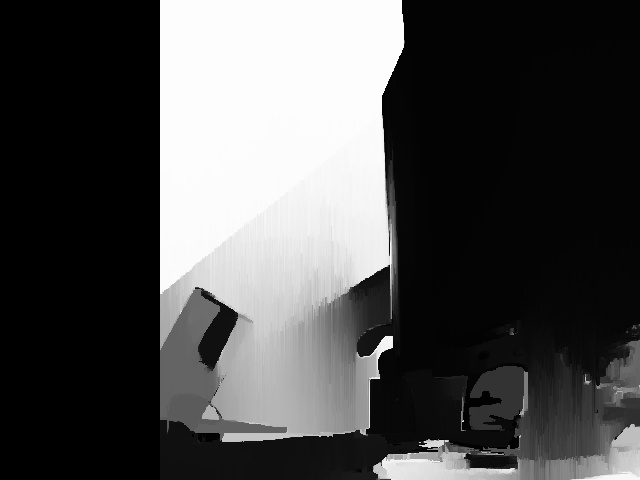
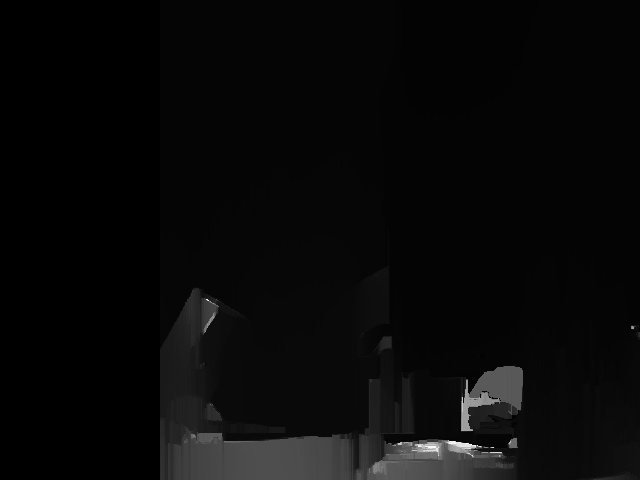
Little Things make me happy

diff --git a/StereoTest/LoadCalData.py b/StereoTest/LoadCalData.py
@@ -10,13 +10,13 @@ import numpy as np
 calib_loaded = calibration.StereoCalibration(input_folder=os.getcwd()+"/CalData")
 
 cam = ImagingApi.CameraApi(False, (0, 2))
+live = False
 
-
-while (True):
+def getDisparity():
     left_image, right_image = cam.getPicture()
 
-    #left_image = cv2.cvtColor(left_image, cv2.COLOR_BGR2GRAY)
-    #right_image = cv2.cvtColor(right_image, cv2.COLOR_BGR2GRAY)
+    left_image = cv2.cvtColor(left_image, cv2.COLOR_BGR2GRAY)
+    right_image = cv2.cvtColor(right_image, cv2.COLOR_BGR2GRAY)
 
     block_matcher = cv2.StereoBM_create()
 
@@ -44,7 +44,7 @@ while (True):
         speckleWindowSize=0,
         speckleRange=2,
         preFilterCap=63,
-            mode=cv2.STEREO_SGBM_MODE_SGBM_3WAY
+        mode=cv2.STEREO_SGBM_MODE_SGBM_3WAY
     )
 
     right_matcher = cv2.ximgproc.createRightMatcher(left_matcher)
@@ -69,10 +69,17 @@ while (True):
     filteredImg = cv2.normalize(src=filteredImg, dst=filteredImg, beta=0, alpha=255, norm_type=cv2.NORM_MINMAX);
     filteredImg = np.uint8(filteredImg)
     cv2.imshow('Disparity Map', filteredImg)
-    cv2.imshow("1",rectified_pair[0])
-    cv2.imshow("2",rectified_pair[1])
+    cv2.imshow("1", rectified_pair[0])
+    cv2.imshow("2", rectified_pair[1])
     cv2.imwrite('DisparityMap.jpg', filteredImg)
-    if cv2.waitKey(1) == 27:
-        break
+
+if live:
+    while (True):
+        getDisparity()
+        if cv2.waitKey(1) == 27:
+            break
+else:
+    getDisparity()
+
 cv2.waitKey(0)
 cv2.destroyAllWindows()

diff --git a/GetBrightness/GetBrightnessCalData.py b/GetBrightness/GetBrightnessCalData.py
@@ -4,7 +4,7 @@ import StereoTest
 import glob
 
 webcamID = 2
-cap = cv2.VideoCapture('http://192.168.199.3:808' + str(webcamID) + '/')
+#cap = cv2.VideoCapture('http://192.168.199.3:808' + str(webcamID) + '/')
 alpha = 3
 beta = -150
 
@@ -33,5 +33,5 @@ while(True):
     cv2.imshow(image, img)
     if cv2.waitKey(1) == 27:
         break
-cap.release()
+#cap.release()
 cv2.destroyAllWindows()
